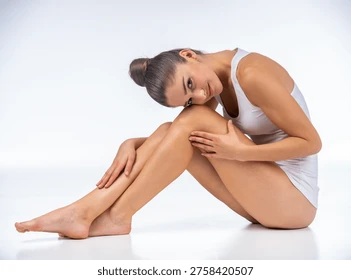
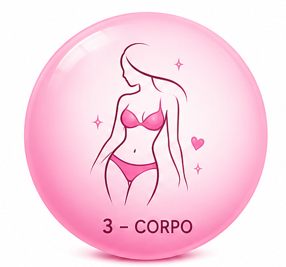
botao

diff --git a/index.html b/index.html
@@ -45,12 +45,54 @@
         font-weight: bold;
         color: #500429;
     }
+    .botoes-categorias{
+        display: flex;
+        gap: 15px;
+        justify-content: center;
+        margin: 20px 0;
+    }
+    .botoes-categorias button{
+        background: none;
+        border: none;
+        cursor: pointer;
+        transition: transform 0.2s;
+        width: 110px;
+    }
+    .botoes-categorias button:hover {
+        transform: scale(1.1);
+    }
+    .botoes-categorias img {
+        width: 100%;
+        border-radius: 50%;
+    }
 </style>
 <body>
     <header>
         <h1>blog sobre beleza feminina!</h1>
         <p>Aqui compartilhamos o mundo da mulher!</p>
     </header>
+    <div class="botoes-categorias">
+        <button 
+        onclick="mostrarConteudo('maquiagem')">
+    <img src="maquiagem.jpg">
+     </button>
+      <button 
+      onclick="mostrarConteudo('ROSTO')">
+      <img src="rosto .png">
+    </button>
+    <button
+        onclick="mostrarConteudo('corpo')">
+    <img src="corpo.png">
+   </button>
+   <button
+   onclick="mostrarConteudo('roupa')">
+     <img src="roupa.png">
+     </button>
+    <button
+    onclick="mostrarConteudo('outros')">
+    <img src="outros.png">
+    </button>
+    </div>
     <main>
         <article>
             <img src="imagem-blog.png" alt="logo tipo da marca beautyblog">
@@ -156,5 +198,11 @@
                 texto.textContent++;
            }
         })
+        function mostrarConteudo(id){
+            document.querySelectorAll('conteudo-categoria'). forEach(div => {
+                div.style.display = 'none';
+            });
+            document.getElementById(id).style.display = 'block';
+        }
 </script>
 </html>

diff --git a/script.js b/script.js
@@ -9,3 +9,4 @@
                 texto.textContent++;
            }
         })
+        
